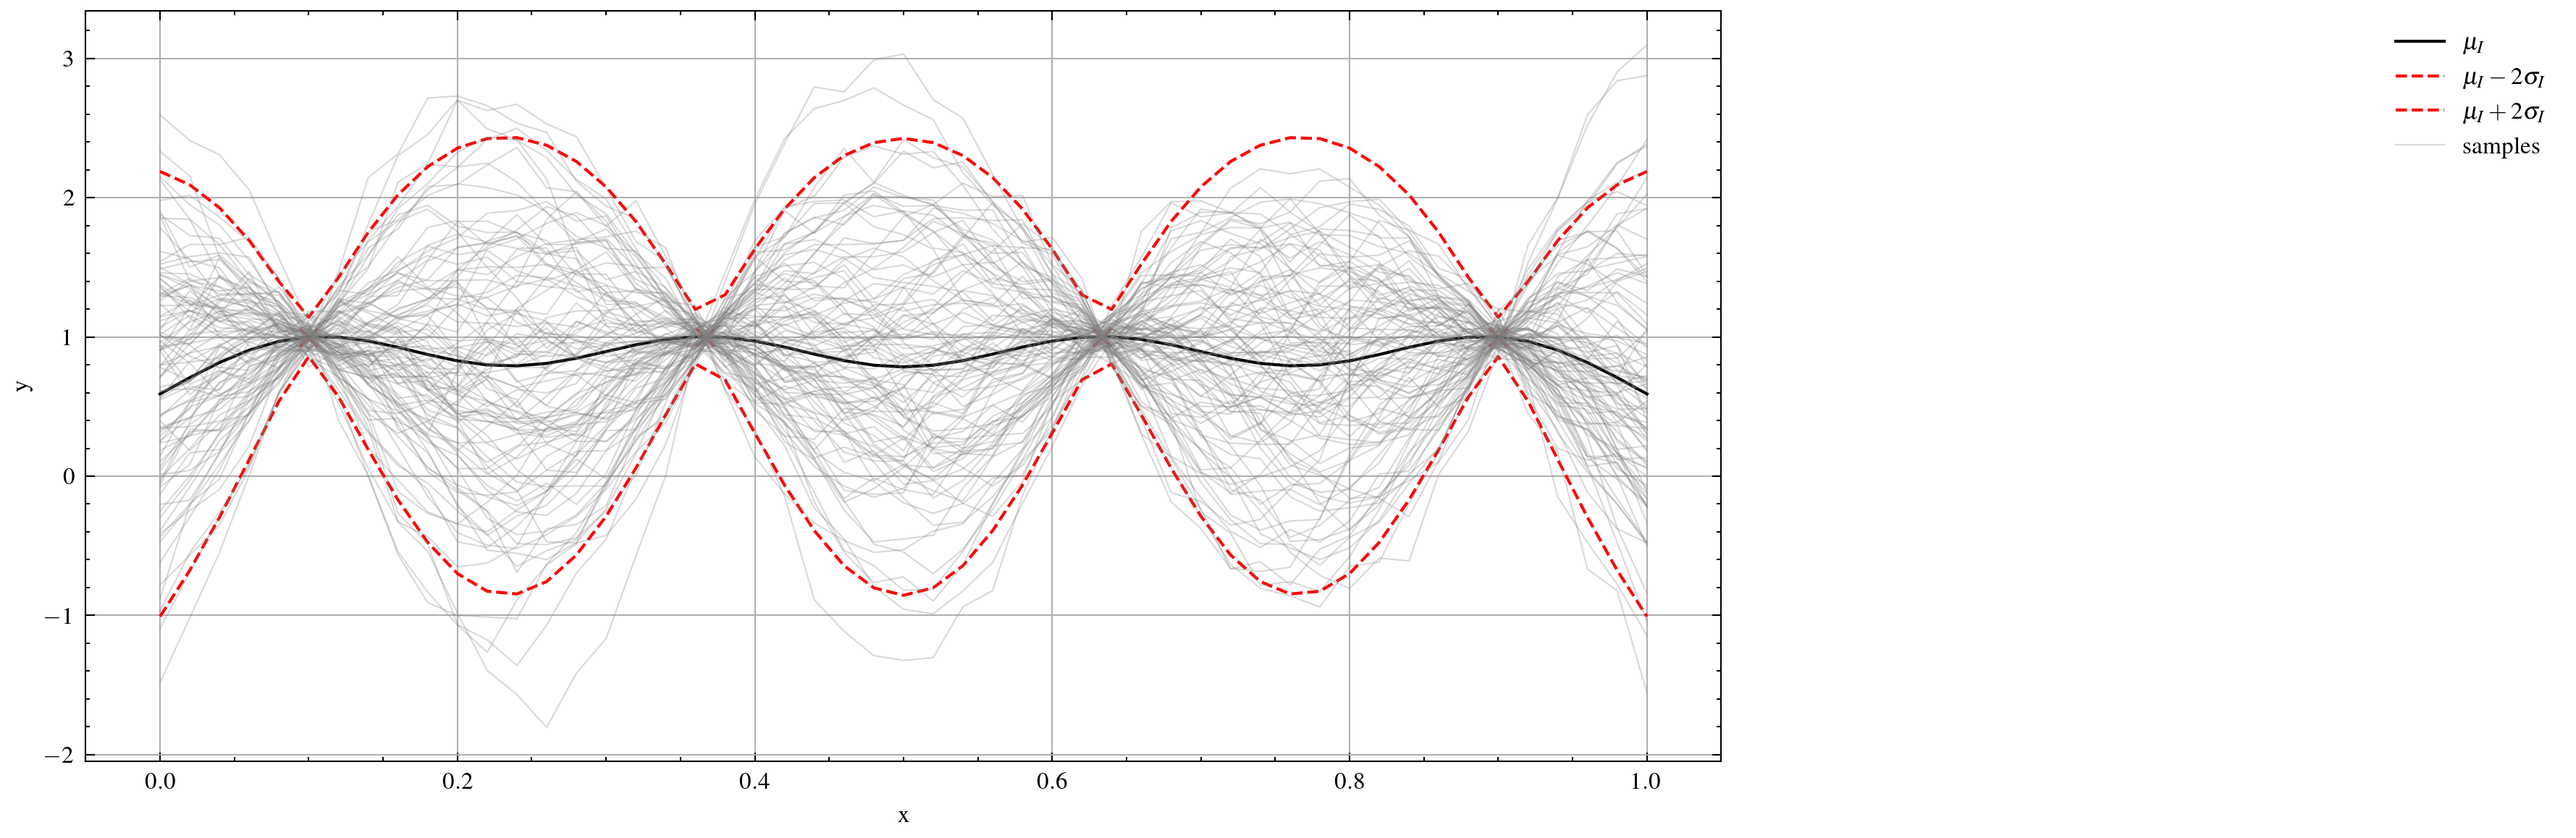
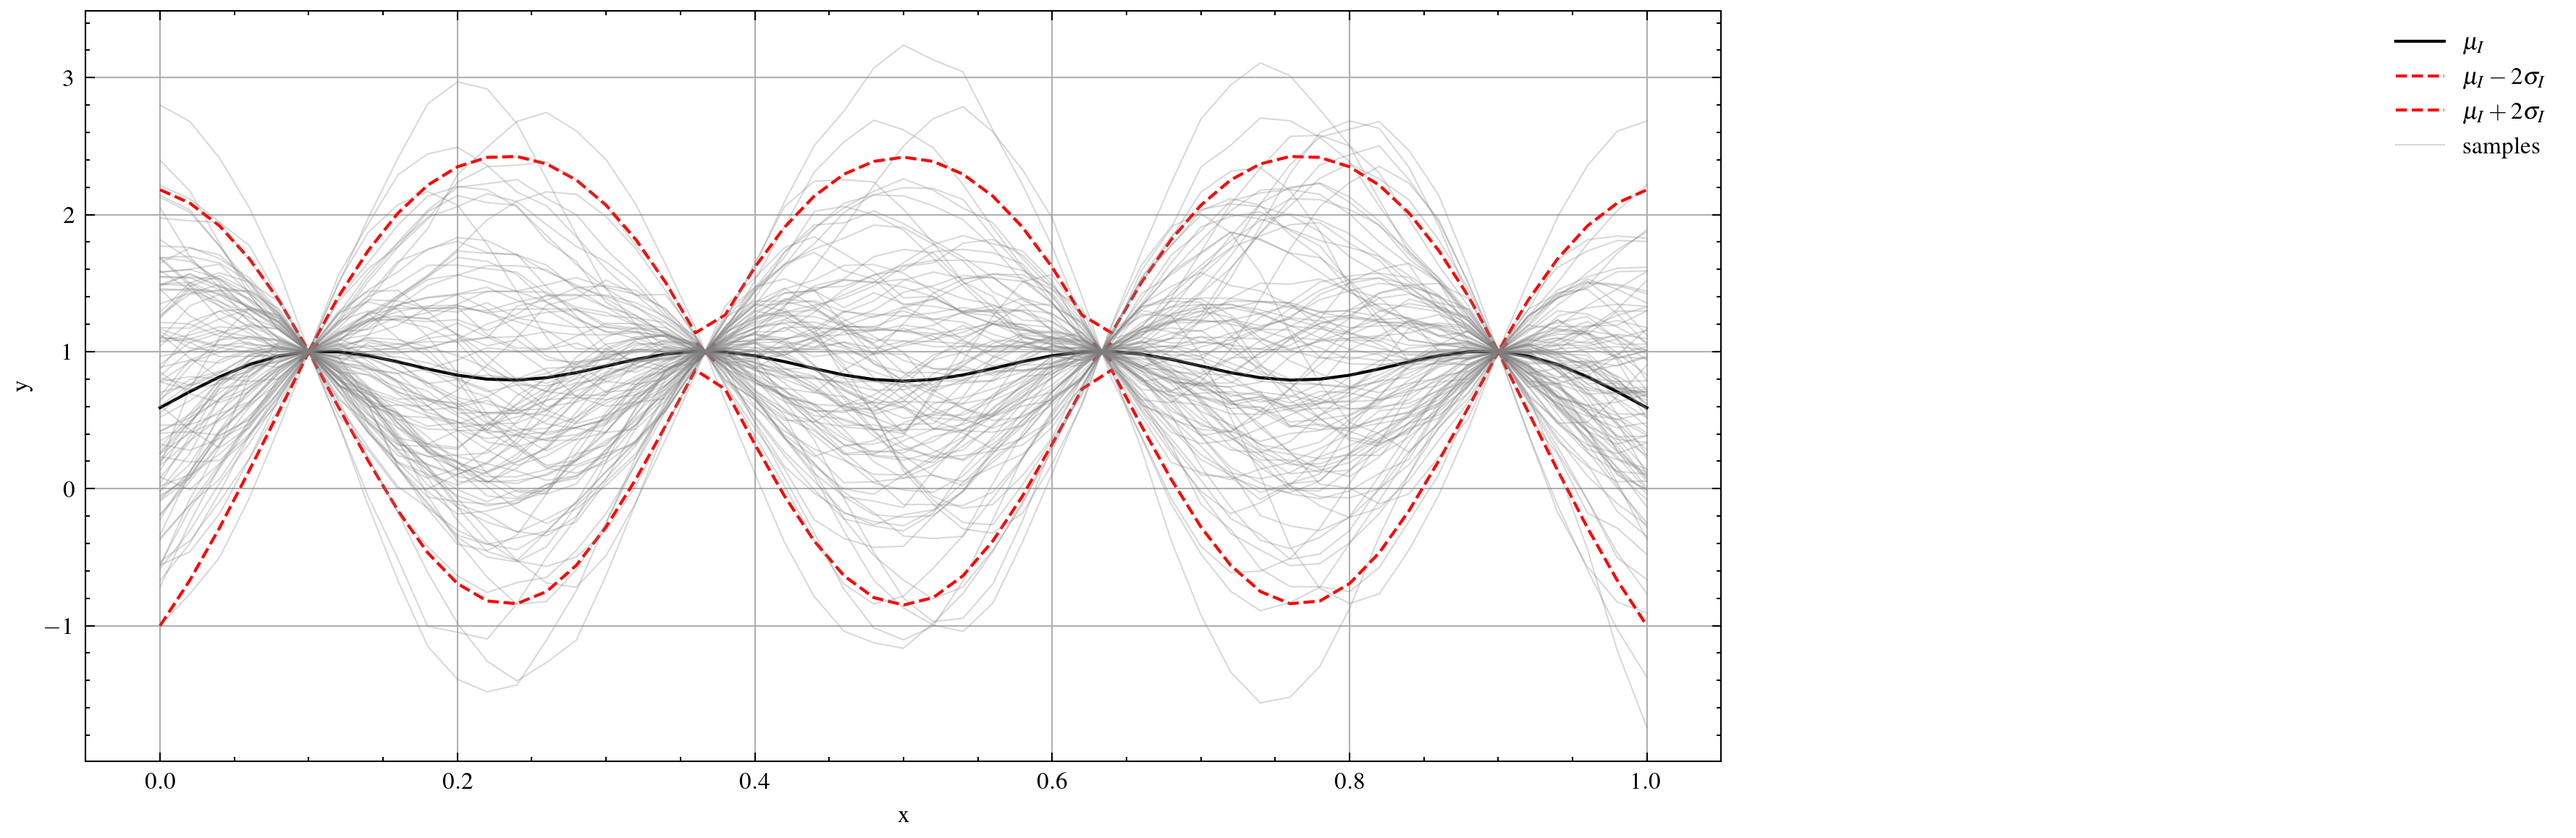
[Minor] Added tilting test

Changed region(s): [[0.0312, 0.1244, 0.6551, 0.8083], [0.0312, 0.0622, 0.6551, 0.0933]]

diff --git a/tests/test_sampling.py b/tests/test_sampling.py
@@ -25,17 +25,19 @@ class TestConstrainedSampling(unittest.TestCase):
 
     def test_sampling_rate_wrt_constraints(self):
         a = np.linspace(-1., 0.95, 20)
+        n_samples = 10
 
         rejection_rate_constraint = np.zeros(a.shape)
         rejection_rate_neumann = np.zeros(a.shape)
-
+        
         x_sample = np.linspace(0., 1., 100)
         
         means_inter = np.zeros((a.shape[0], x_sample.shape[0]))
         means_constr = np.zeros((a.shape[0], x_sample.shape[0]))
-        
+         
         interpol_x = np.linspace(0.1, 0.9, 4)
         interpol_y = np.ones_like(interpol_x)
+        
 
         bgp = None
         bgp_init = None
@@ -45,11 +47,11 @@ class TestConstrainedSampling(unittest.TestCase):
             if i == 0:
                 bgp_init = bgp
                 
-            _, stats = bgp.sample_constrained(x_sample = bgp.splines.splines_x, n_samples=10, return_stats=True, throw_exception_if_failed=False)
+            _, stats = bgp.sample_constrained(x_sample = bgp.splines.splines_x, n_samples=n_samples, return_stats=True, throw_exception_if_failed=False)
 
             rejection_rate_constraint[i] = stats['n_rejected_constraint']/(stats['n_rejected_constraint'] + stats['n_rejected_neumann'] + stats['n_accepted'])
             rejection_rate_neumann[i] = stats['n_rejected_neumann']/(stats['n_rejected_neumann'] + stats['n_accepted'])
-
+            
             means_inter[i, :], _ = bgp.statistics_interpolation(x=x_sample)
             means_constr[i, :], _ = bgp.statistics_constrained(x=x_sample)
         
@@ -77,3 +79,34 @@ class TestConstrainedSampling(unittest.TestCase):
 
         plt.tight_layout()
         plt.savefig('img/test_tight_constraints_rejection_rates.png')
+
+
+    def test_sampling_wrt_constraints_ET(self):
+        a = np.linspace(-1., 1.5, 20)
+        n_samples = 100
+        
+        interpol_x = np.linspace(0.1, 0.9, 4)
+        interpol_y = 1.5*np.ones_like(interpol_x)
+        
+        x_sample = np.linspace(0., 1., 51)
+         
+        samples_ET = np.zeros((a.shape[0], n_samples, x_sample.shape[0]))
+        
+        for i, a_ in enumerate(a):
+            bgp = BoundedGP(50, 0., 1., gaussian_kernel({'theta': 0.1, 'sigma': 1.}), interpol_x=interpol_x, interpol_y=interpol_y, lowerbound=a_, upperbound=10000)
+            x_sample = bgp.splines.splines_x
+            samples_ET[i, :, :] = bgp.sample_constrained_ET(x_sample=x_sample, n_samples=n_samples)
+
+
+        fig, ax = plt.subplots(3, 3, figsize=(15, 15))
+        
+        ax = ax.flatten()
+
+        for i in range(9):
+            idx = -int(1+i*samples_ET.shape[0]//9)
+            for j in range(n_samples):
+                ax[-i-1].plot(x_sample, samples_ET[idx, j, :], color='red', linewidth=0.3, alpha=0.7)
+            ax[-i-1].axhline(a[idx])
+        plt.tight_layout()
+        plt.savefig('img/test_tiling_constrained_sampling.png')
+
